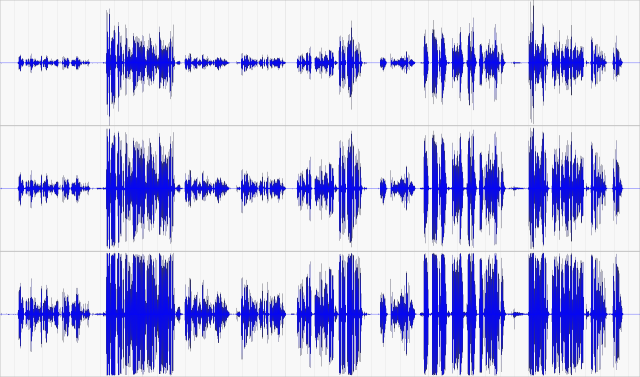
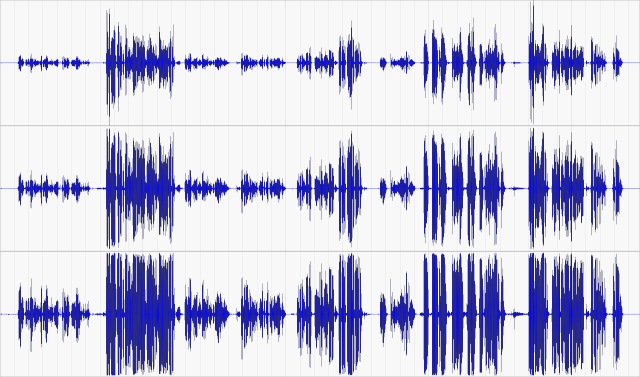
Fixed wave form plot for audio signals with DC shift

diff --git a/src/Plot.cpp b/src/Plot.cpp
@@ -29,6 +29,8 @@ std::vector<std::vector<unsigned> > Plot::histogramm(const Channel &channel,unsi
 	unsigned maxv=1;
 	unsigned zero=(int)(0.5*sizeY);
 
+	int last=zero;
+
 	for(unsigned long t=0;t<size;t++)
 	{
 		int value=(int)((channel[t]/max/2+0.5)*sizeY);
@@ -37,9 +39,10 @@ std::vector<std::vector<unsigned> > Plot::histogramm(const Channel &channel,unsi
 			value=0;
 		if(value>=sizeY)
 			value=sizeY-1;
-		if(value>=zero)
+		int newLast=value;
+		if(value>=last)
 		{
-			for(;value>=zero;value--)
+			for(;value>=last;value--)
 			{
 				unsigned v=(map[x][value]++);
 				if(v>maxv)
@@ -47,13 +50,14 @@ std::vector<std::vector<unsigned> > Plot::histogramm(const Channel &channel,unsi
 			}
 		} else
 		{
-			for(;value<=zero;value++)
+			for(;value<=last;value++)
 			{
 				unsigned v=(map[x][value]++);
 				if(v>maxv)
 					maxv=v;
 			}
 		}
+		last=newLast;
 
 	}
 	for(unsigned x=0;x<sizeX;x++)
